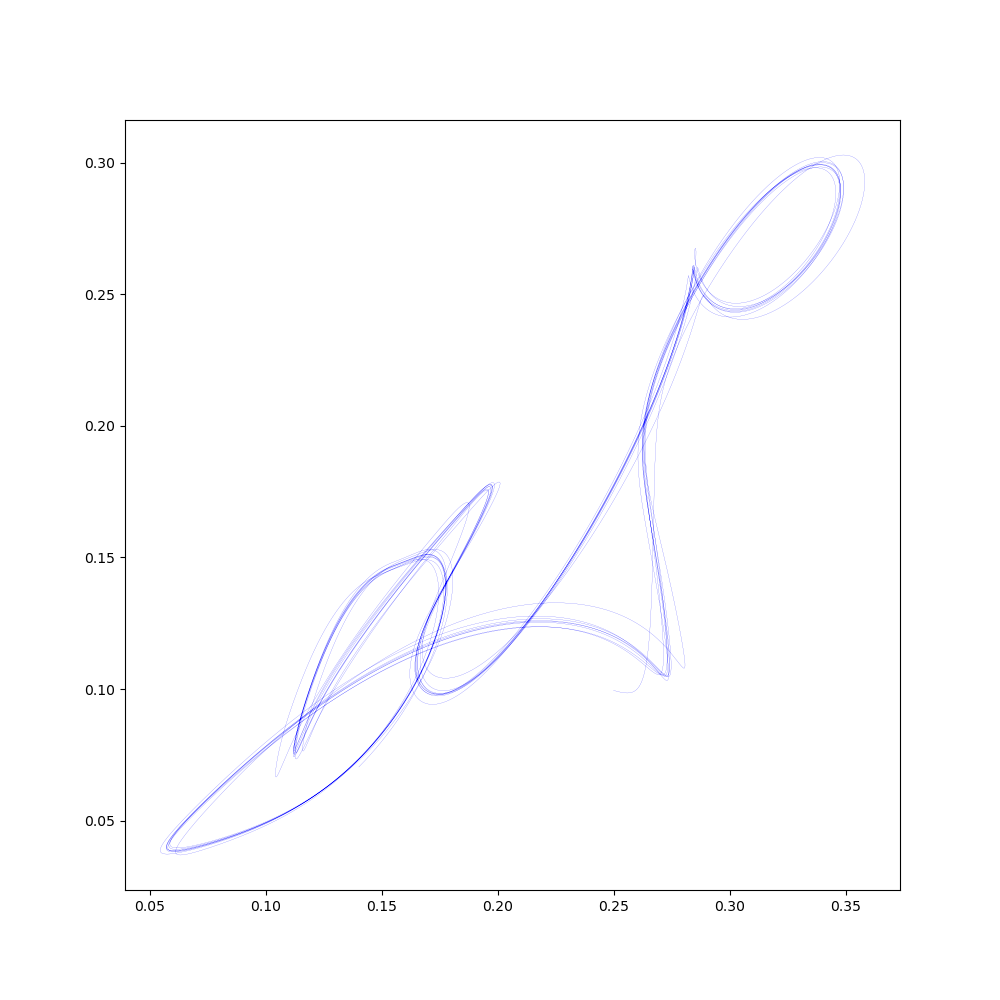
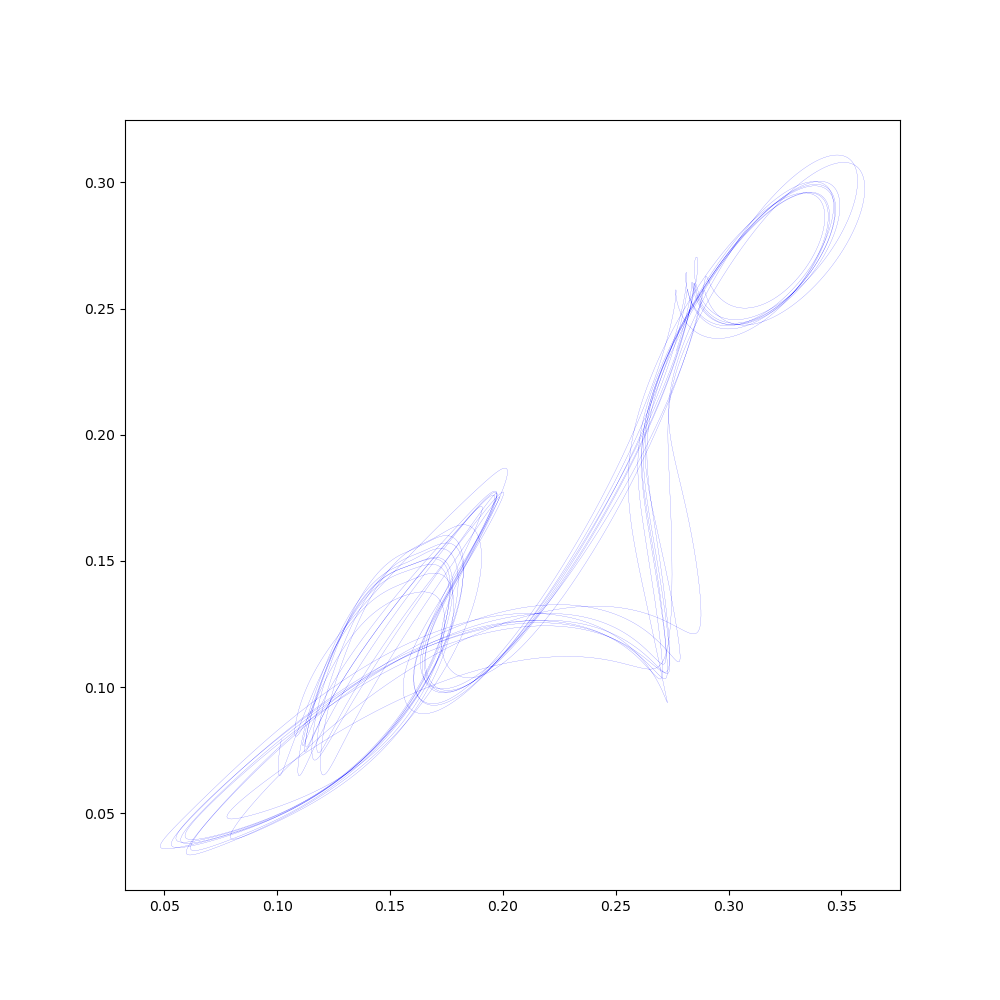
update initial value

diff --git a/code/good_initialvalue.cpp b/code/good_initialvalue.cpp
@@ -44,15 +44,15 @@ int main(){
     plt::save("../../laminar_sample.png");
 
     // set up for search
-    t=2000;
+    t=1000;
     latter = 1;
     nu = 0.00018;
     beta = 0.423;
     ddt = 0.01;
-    x_0 = npy2EigenVec<std::complex<double>>("../../initials/beta0.423_nu0.00018_1430period_dt0.01eps0.05.npy");
+    x_0 = npy2EigenVec<std::complex<double>>("../../initials/beta0.423_nu0.00018_1402period_dt0.01eps0.02.npy");
     int num_of_candidates = omp_get_max_threads();
     int skip = 100;
-    double epsilon = 5E-2;
+    double epsilon = 1E-2;
     int threads = omp_get_max_threads();
     std::cout << threads << "threads" << std::endl;
 
@@ -65,7 +65,7 @@ int main(){
         std::cout << "現在"  << i+1 << "回" <<std::endl;
         initials.col(0) = LL.get_x_0_();
         for(int j = 1; j < num_of_candidates - 1; j++){
-            initials.col(j) = LL.perturbation_(LL.get_x_0_(), -15, -1);
+            initials.col(j) = LL.perturbation_(LL.get_x_0_(), -10, 1);
         }
         Eigen::VectorXd durations(num_of_candidates);
         #pragma omp parallel for num_threads(threads)
